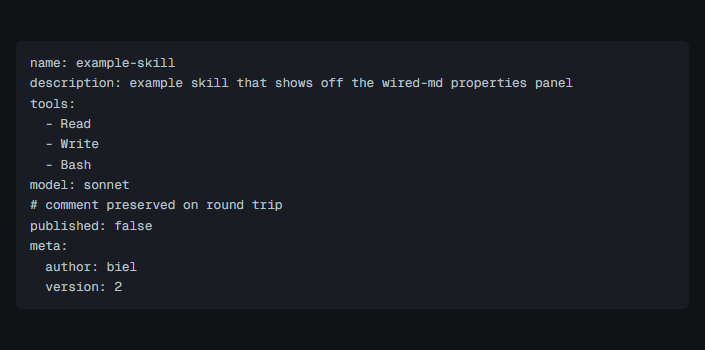
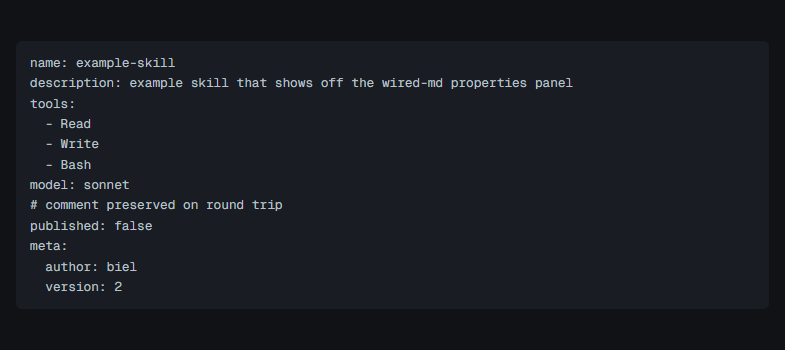
e2e: the fixA review shots survive the tabs world; refreshed screenshots
Claude-Session: https://claude.ai/code/session_01WJ7jh7vwRgQHHjijSicVwi

diff --git a/tests/e2e/checks/61-review-fixA.js b/tests/e2e/checks/61-review-fixA.js
@@ -36,8 +36,10 @@ function focusBlock(paneKey, type) {
 function rectOf(paneKey, type) {
   return `(function(){
     var p = panes.find(function(x){ return x.path && x.path.indexOf(${JSON.stringify(paneKey)}) !== -1; });
+    if (!p) return null;
     var ed = p.el.querySelector('.vditor-ir pre.vditor-reset');
-    var n = ed.querySelector('[data-type=' + JSON.stringify(${JSON.stringify(type)}) + ']');
+    var n = ed ? ed.querySelector('[data-type=' + JSON.stringify(${JSON.stringify(type)}) + ']') : null;
+    if (!n) return null;
     var r = n.getBoundingClientRect();
     var pad = 16;
     return {
@@ -67,6 +69,21 @@ async function run(ctx) {
     var s=window.getSelection();if(s)s.removeAllRanges();return null;})()`);
   await sleep(500);
 
+  // In the tabs world nothing before this file keeps example-skill.md open, so
+  // the shot opens it itself and closes it again afterwards.
+  let openedFm = false;
+  const hasFm = await js(`!!panes.find(function(x){return x.path&&x.path.indexOf('example-skill.md')!==-1;})`);
+  if (!hasFm) {
+    const fmPath = await js(
+      `(function(){var p=panes.find(function(x){return x.path&&x.path.indexOf('demo.md')!==-1;});return p?p.path.replace(/demo\\.md$/,'example-skill.md'):null;})()`
+    );
+    if (fmPath) {
+      await js(`void openPath(${JSON.stringify(fmPath)})`);
+      await sleep(900);
+      openedFm = true;
+    }
+  }
+
   const written = [];
   const shoot = async (name, paneKey, type) => {
     await js(focusBlock(paneKey, type));
@@ -85,16 +102,23 @@ async function run(ctx) {
   // The same code block with the caret inside it: before the fix this is where
   // the source appeared ABOVE the rendered preview and the block showed twice.
   await js(
-    `(function(){var p=activePane();var ed=p.el.querySelector('.vditor-ir pre.vditor-reset');ed.focus();ed.querySelector('[data-type="code-block"] .vditor-ir__preview').click();return null;})()`
+    `(function(){var p=panes.find(function(x){return x.path&&x.path.indexOf('demo.md')!==-1;});if(!p)return null;var ed=p.el.querySelector('.vditor-ir pre.vditor-reset');if(!ed)return null;ed.focus();var prev=ed.querySelector('[data-type="code-block"] .vditor-ir__preview');if(prev)prev.click();return null;})()`
   );
   await sleep(700);
   await shoot('code-block-editing', 'demo.md', 'code-block');
 
   // Caret out again, and nothing left dirty for the checks that follow.
   await js(
-    `(function(){var p=activePane();var ed=p.el.querySelector('.vditor-ir pre.vditor-reset');var kids=[].slice.call(ed.children);var t=kids.find(function(k){return k.tagName==='P';})||kids[0];var r=document.createRange();r.selectNodeContents(t);r.collapse(true);var s=getSelection();s.removeAllRanges();s.addRange(r);t.click();document.dispatchEvent(new Event('selectionchange'));return null;})()`
+    `(function(){var p=panes.find(function(x){return x.path&&x.path.indexOf('demo.md')!==-1;});if(!p)return null;var ed=p.el.querySelector('.vditor-ir pre.vditor-reset');if(!ed)return null;var kids=[].slice.call(ed.children);var t=kids.find(function(k){return k.tagName==='P';})||kids[0];if(!t)return null;var r=document.createRange();r.selectNodeContents(t);r.collapse(true);var s=getSelection();s.removeAllRanges();s.addRange(r);t.click();document.dispatchEvent(new Event('selectionchange'));return null;})()`
   );
   await sleep(400);
+
+  if (openedFm) {
+    await js(
+      `(function(){var p=panes.find(function(x){return x.path&&x.path.indexOf('example-skill.md')!==-1;});if(p)void closePane(p);})()`
+    );
+    await sleep(400);
+  }
 
   check(
     'review shots for fixA written to docs/review-fixA',
